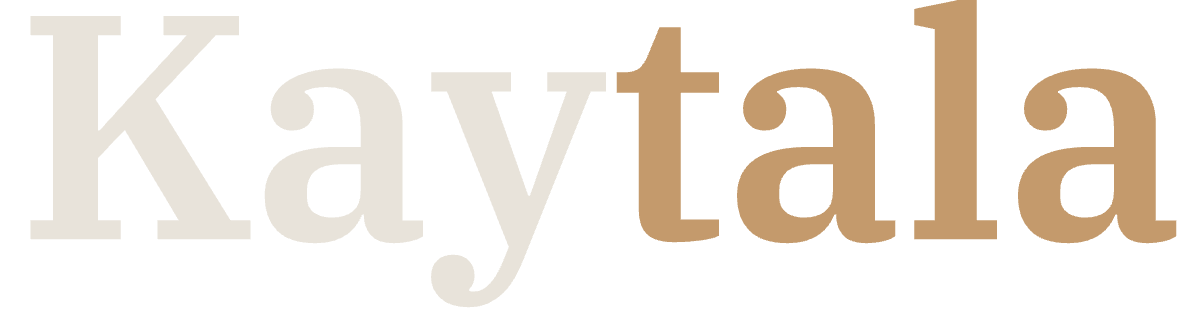
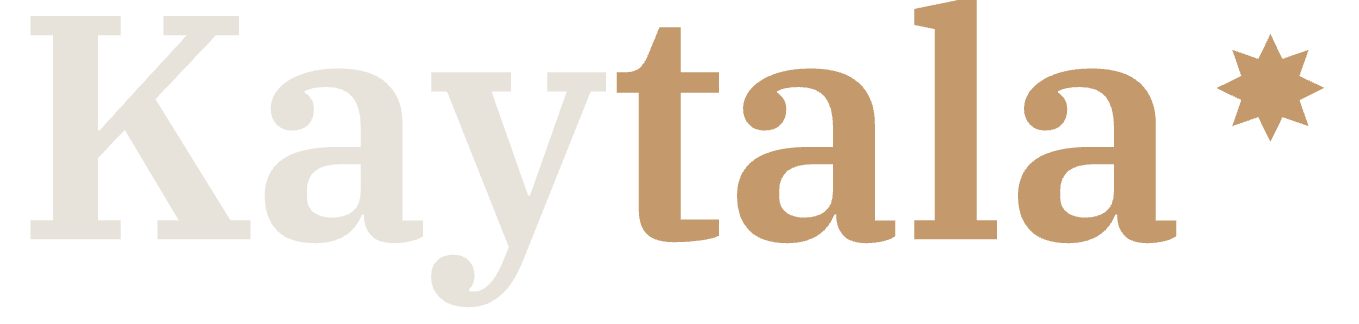
Keep the star finial on the wordmark

Changed region(s): [[0.0308, 0.0, 0.985, 0.9568], [0.7696, 0.7407, 0.8003, 0.7716], [0.5541, 0.7407, 0.5849, 0.7716]]

diff --git a/README.md b/README.md
@@ -4,7 +4,7 @@
 
 <picture>
   <source media="(prefers-color-scheme: dark)" srcset="assets/wordmark-dark.png">
-  <img src="assets/wordmark-light.png" width="270" alt="Kaytala">
+  <img src="assets/wordmark-light.png" width="305" alt="Kaytala">
 </picture>
 
 <p>
